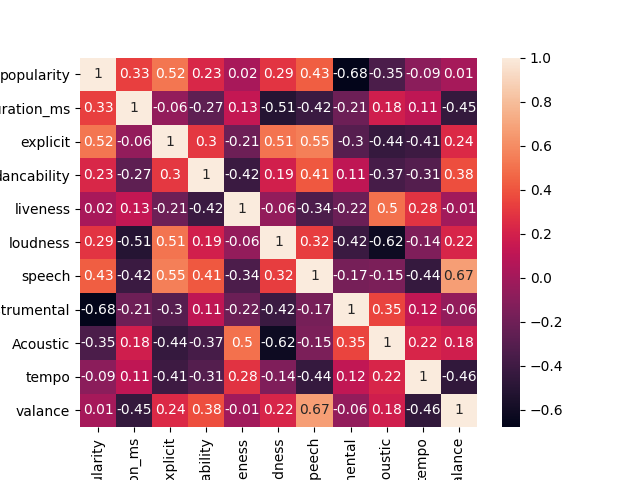
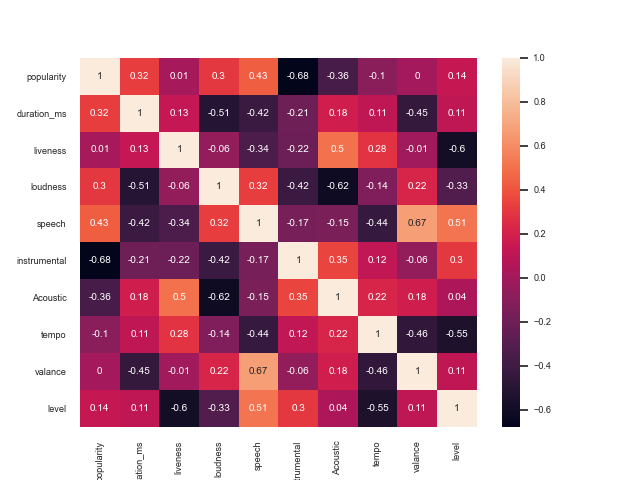
final charts

diff --git a/analysis_deliverable/song_covid_data_viz.py b/analysis_deliverable/song_covid_data_viz.py
@@ -8,6 +8,8 @@ import numpy as np
 import matplotlib.pyplot as plt
 import plotly.graph_objects as go
 import plotly.offline as pyo
+import statistics
+from math import sqrt
 
 CHARTS_FILE = "/Users/mohammedakel/Desktop/CS1951A-Spring2022/rim-dj/analysis_deliverable/charts"
 
@@ -249,6 +251,7 @@ for att in radar_attributes:
     trough_means.append(mean_trough)
 '''
 
+'''
 label_loc = np.linspace(start=0, stop=2 * np.pi, num=len(peak_means_cal))
 plt.figure(figsize=(6, 6))
 plt.subplot(polar=True)
@@ -273,6 +276,69 @@ fig = go.Figure(
 )
 
 pyo.plot(fig)
+'''
+
+
+def plot_confidence_interval(x, values, z=1.96, color='#2187bb', horizontal_line_width=0.25):
+    mean = statistics.mean(values)
+    stdev = statistics.stdev(values)
+    confidence_interval = z * stdev / sqrt(len(values))
+
+    left = x - horizontal_line_width / 2
+    top = mean - confidence_interval
+    right = x + horizontal_line_width / 2
+    bottom = mean + confidence_interval
+    plt.plot([x, x], [top, bottom], color=color)
+    plt.plot([left, right], [top, top], color=color)
+    plt.plot([left, right], [bottom, bottom], color=color)
+    plt.plot(x, mean, 'o', color='#f44336')
+
+    return mean, confidence_interval
+
+valence_peak_data = get_peak_attribute("valence")
+print("loaded peak data for valence")
+print("peak avg: ", sum(valence_peak_data)/len(valence_peak_data))
+valence_trough_data = get_trough_attribute("valence")
+print("loaded trough data for valence")
+print("trough avg: ", sum(valence_trough_data)/len(valence_trough_data))
+
+plt.xticks([1, 2], ['Peaks', 'Troughs'])
+plt.title('Confidence Interval for Valence')
+plot_confidence_interval(1, valence_peak_data)
+plot_confidence_interval(2, valence_trough_data)
+plt.show()
+
+
+
+loudness_peak_data = get_peak_attribute("loudness")
+print("loaded peak data for loudness")
+print("peak avg: ", sum(loudness_peak_data)/len(loudness_peak_data))
+loudness_trough_data = get_trough_attribute("loudness")
+print("loaded trough data for loudness")
+print("trough avg: ", sum(loudness_trough_data)/len(loudness_trough_data))
+
+
+
+plt.xticks([1, 2], ['Peaks', 'Troughs'])
+plt.title('Confidence Interval for Loudness')
+plot_confidence_interval(1, loudness_peak_data)
+plot_confidence_interval(2, loudness_trough_data)
+plt.show()
+
+
+danceability_peak_data = get_peak_attribute("danceability")
+print("loaded peak data for danceability")
+print("peak avg: ", sum(danceability_peak_data)/len(danceability_peak_data))
+danceability_trough_data = get_trough_attribute("danceability")
+print("loaded trough data for danceability")
+print("trough avg: ", sum(danceability_trough_data)/len(danceability_trough_data))
+
+
+plt.xticks([1, 2], ['Peaks', 'Troughs'])
+plt.title('Confidence Interval for danceability')
+plot_confidence_interval(1, danceability_peak_data)
+plot_confidence_interval(2, danceability_trough_data)
+plt.show()
 
 
 

diff --git a/data_deliverable/Spotify_Viz_mohammed.py b/data_deliverable/Spotify_Viz_mohammed.py
@@ -56,8 +56,6 @@ CREATE TABLE IF NOT EXISTS vizTestingTable (
     name VARCHAR,
     popularity REAL,
     duration_ms REAL,
-    explicit REAL,
-    dancability REAL,
     liveness REAL,
     loudness REAL,
     speech REAL,
@@ -85,9 +83,9 @@ for i in result:
     #print(popularity)
     duration_ms = i[0]['duration_ms']
     #print(duration_ms)
-    explicit = i[0]['explicit']
+    #explicit = i[0]['explicit']
     #print(explicit)
-    dancability = i[0]['dancibility']
+    #dancability = i[0]['dancability']
     #print(dancability)
     liveness = i[0]['liveness']
     #print(liveness)
@@ -110,7 +108,7 @@ for i in result:
     else:
         level = 0
     #print(level)
-    c.execute('INSERT INTO vizTestingTable VALUES (?, ?, ?, ?, ?, ?, ?, ?, ?, ?, ?, ?, ?, ?, ?)', (ID, name, popularity, duration_ms, explicit, dancability, liveness, loudness, speech, instrumental, Acoustic, artists, tempo, valance, level))
+    c.execute('INSERT INTO vizTestingTable VALUES (?, ?, ?, ?, ?, ?, ?, ?, ?, ?, ?, ?, ?)', (ID, name, popularity, duration_ms, liveness, loudness, speech, instrumental, Acoustic, artists, tempo, valance, level))
 
 testing_df = pd.read_sql_query("SELECT * from vizTestingTable", conn)   
 conn.commit()
@@ -118,7 +116,7 @@ conn.commit()
 print(testing_df.head())
 
 
-
+"""
 def boxplot_by_level(df, name_attributeColumn, name_ByColumn, title):
     '''given a dataframe that contains a coded categorical column represeting COVID level (eg: 1 for high incidence, 0 for low incidence ...), this function returns a box plots for the different
     attributes by COVID level'''
@@ -162,10 +160,12 @@ popularity_dancability_scatterplot_byLevel =  Two_Attributes_scatterplot_ByLevel
 ggsave(plot=popularity_dancability_scatterplot_byLevel,filename = "dancability_popularity_test.png", path=CHARTS_FILE)
 popularity_dancability_scatterplot_byLevel =  Two_Attributes_scatterplot_ByLevel(testing_df, "duration_ms", "popularity", "level", "Duration vs Popularity By Level")
 ggsave(plot=popularity_dancability_scatterplot_byLevel,filename = "duration_popularity_test.png", path=CHARTS_FILE)
-
+"""
+    
 def attributes_corr_heatmap(df):
     '''given a data frame, the function returns a heatmap depeciting the correlation between all the attributes in the dataframe'''
     matrix = df.corr().round(2)
+    sns.set(font_scale=0.6)
     graph = sns.heatmap(matrix, annot=True)
     file_path = CHARTS_FILE + "/heatmap_test.png"
     plt.savefig(file_path)

diff --git a/data_deliverable/Spotify_Song_Data.py b/data_deliverable/Spotify_Song_Data.py
@@ -4,9 +4,10 @@ import json
 import sqlite3 
 
 #load credential from authorization.json
-credentials = json.load(open(r'C:\Users\fangd\Desktop\cs1951a\rim-dj\data_deliverable\authorization.json'))
+credentials = json.load(open('/Users/mohammedakel/Desktop/CS1951A-Spring2022/rim-dj/data_deliverable/authorization.json'))
 client_id = credentials['client_id']
 client_secret = credentials['client_secret']
+
 
 client_credentials_manager = SpotifyClientCredentials(client_id=client_id,client_secret=client_secret)
 sp = spotipy.Spotify(client_credentials_manager=client_credentials_manager)
